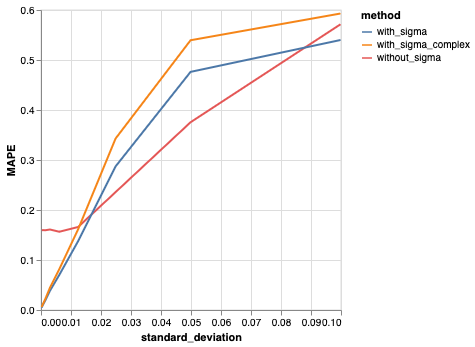
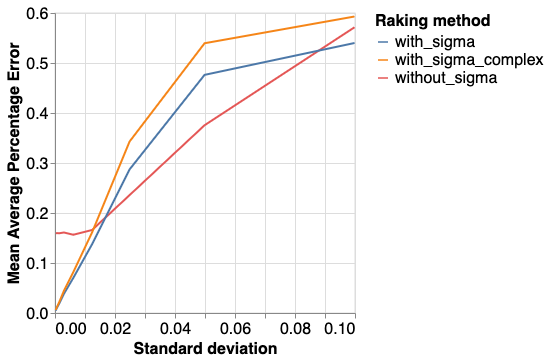
Improve plots

diff --git a/MAPE_variable.html b/MAPE_variable.html
@@ -20,7 +20,7 @@
   <div id="vis"></div>
   <script>
     (function(vegaEmbed) {
-      var spec = {"config": {"view": {"continuousWidth": 300, "continuousHeight": 300}}, "data": {"name": "data-65c408e2a9bd8692c3c29e3ad18324c0"}, "mark": {"type": "bar"}, "encoding": {"color": {"field": "method", "type": "nominal"}, "column": {"field": "variable", "type": "ordinal"}, "x": {"field": "method", "type": "ordinal"}, "y": {"field": "MAPE", "type": "quantitative"}}, "$schema": "https://vega.github.io/schema/vega-lite/v5.16.3.json", "datasets": {"data-65c408e2a9bd8692c3c29e3ad18324c0": [{"variable": 1, "true_mean": 0.1, "standard_deviation": 0.000390625, "method": "without_sigma", "MAPE": 0.15848712167520024}, {"variable": 2, "true_mean": 0.1, "standard_deviation": 0.00078125, "method": "without_sigma", "MAPE": 0.15874428123716716}, {"variable": 3, "true_mean": 0.1, "standard_deviation": 0.0015625, "method": "without_sigma", "MAPE": 0.15850567319213366}, {"variable": 4, "true_mean": 0.1, "standard_deviation": 0.003125, "method": "without_sigma", "MAPE": 0.1599968191082788}, {"variable": 5, "true_mean": 0.1, "standard_deviation": 0.00625, "method": "without_sigma", "MAPE": 0.15544927597608443}, {"variable": 6, "true_mean": 0.1, "standard_deviation": 0.0125, "method": "without_sigma", "MAPE": 0.1650368608952311}, {"variable": 7, "true_mean": 0.1, "standard_deviation": 0.025, "method": "without_sigma", "MAPE": 0.23470430019260285}, {"variable": 8, "true_mean": 0.1, "standard_deviation": 0.05, "method": "without_sigma", "MAPE": 0.3745517425366574}, {"variable": 9, "true_mean": 0.1, "standard_deviation": 0.1, "method": "without_sigma", "MAPE": 0.5705101180789108}, {"variable": 1, "true_mean": 0.1, "standard_deviation": 0.000390625, "method": "with_sigma", "MAPE": 0.004607643168661127}, {"variable": 2, "true_mean": 0.1, "standard_deviation": 0.00078125, "method": "with_sigma", "MAPE": 0.009505430930509281}, {"variable": 3, "true_mean": 0.1, "standard_deviation": 0.0015625, "method": "with_sigma", "MAPE": 0.018076172148851967}, {"variable": 4, "true_mean": 0.1, "standard_deviation": 0.003125, "method": "with_sigma", "MAPE": 0.03753351426005655}, {"variable": 5, "true_mean": 0.1, "standard_deviation": 0.00625, "method": "with_sigma", "MAPE": 0.06930276379970787}, {"variable": 6, "true_mean": 0.1, "standard_deviation": 0.0125, "method": "with_sigma", "MAPE": 0.13657506735272387}, {"variable": 7, "true_mean": 0.1, "standard_deviation": 0.025, "method": "with_sigma", "MAPE": 0.28609927858418643}, {"variable": 8, "true_mean": 0.1, "standard_deviation": 0.05, "method": "with_sigma", "MAPE": 0.475210553829539}, {"variable": 9, "true_mean": 0.1, "standard_deviation": 0.1, "method": "with_sigma", "MAPE": 0.5390178348846087}, {"variable": 1, "true_mean": 0.1, "standard_deviation": 0.000390625, "method": "with_sigma_complex", "MAPE": 0.005333796108781675}, {"variable": 2, "true_mean": 0.1, "standard_deviation": 0.00078125, "method": "with_sigma_complex", "MAPE": 0.010995045440165064}, {"variable": 3, "true_mean": 0.1, "standard_deviation": 0.0015625, "method": "with_sigma_complex", "MAPE": 0.020914988480635336}, {"variable": 4, "true_mean": 0.1, "standard_deviation": 0.003125, "method": "with_sigma_complex", "MAPE": 0.04348535979393078}, {"variable": 5, "true_mean": 0.1, "standard_deviation": 0.00625, "method": "with_sigma_complex", "MAPE": 0.08069421228099341}, {"variable": 6, "true_mean": 0.1, "standard_deviation": 0.0125, "method": "with_sigma_complex", "MAPE": 0.16013766709210342}, {"variable": 7, "true_mean": 0.1, "standard_deviation": 0.025, "method": "with_sigma_complex", "MAPE": 0.34180524310721905}, {"variable": 8, "true_mean": 0.1, "standard_deviation": 0.05, "method": "with_sigma_complex", "MAPE": 0.5384561318128677}, {"variable": 9, "true_mean": 0.1, "standard_deviation": 0.1, "method": "with_sigma_complex", "MAPE": 0.5919805839770943}]}};
+      var spec = {"config": {"view": {"continuousWidth": 300, "continuousHeight": 300}, "axis": {"labelFontSize": 16, "titleFontSize": 16}, "header": {"labelFontSize": 16, "titleFontSize": 16}, "legend": {"labelFontSize": 16, "titleFontSize": 16}}, "data": {"name": "data-65c408e2a9bd8692c3c29e3ad18324c0"}, "mark": {"type": "bar"}, "encoding": {"color": {"field": "method", "legend": {"title": "Raking method"}, "type": "nominal"}, "column": {"field": "variable", "header": {"title": "Variable", "titleFontSize": 16}, "type": "ordinal"}, "x": {"axis": {"title": "Method"}, "field": "method", "type": "ordinal"}, "y": {"axis": {"title": "Mean Average Percentage Error"}, "field": "MAPE", "type": "quantitative"}}, "$schema": "https://vega.github.io/schema/vega-lite/v5.16.3.json", "datasets": {"data-65c408e2a9bd8692c3c29e3ad18324c0": [{"variable": 1, "true_mean": 0.1, "standard_deviation": 0.000390625, "method": "without_sigma", "MAPE": 0.15848712167520024}, {"variable": 2, "true_mean": 0.1, "standard_deviation": 0.00078125, "method": "without_sigma", "MAPE": 0.15874428123716716}, {"variable": 3, "true_mean": 0.1, "standard_deviation": 0.0015625, "method": "without_sigma", "MAPE": 0.15850567319213366}, {"variable": 4, "true_mean": 0.1, "standard_deviation": 0.003125, "method": "without_sigma", "MAPE": 0.1599968191082788}, {"variable": 5, "true_mean": 0.1, "standard_deviation": 0.00625, "method": "without_sigma", "MAPE": 0.15544927597608443}, {"variable": 6, "true_mean": 0.1, "standard_deviation": 0.0125, "method": "without_sigma", "MAPE": 0.1650368608952311}, {"variable": 7, "true_mean": 0.1, "standard_deviation": 0.025, "method": "without_sigma", "MAPE": 0.23470430019260285}, {"variable": 8, "true_mean": 0.1, "standard_deviation": 0.05, "method": "without_sigma", "MAPE": 0.3745517425366574}, {"variable": 9, "true_mean": 0.1, "standard_deviation": 0.1, "method": "without_sigma", "MAPE": 0.5705101180789108}, {"variable": 1, "true_mean": 0.1, "standard_deviation": 0.000390625, "method": "with_sigma", "MAPE": 0.004607643168661127}, {"variable": 2, "true_mean": 0.1, "standard_deviation": 0.00078125, "method": "with_sigma", "MAPE": 0.009505430930509281}, {"variable": 3, "true_mean": 0.1, "standard_deviation": 0.0015625, "method": "with_sigma", "MAPE": 0.018076172148851967}, {"variable": 4, "true_mean": 0.1, "standard_deviation": 0.003125, "method": "with_sigma", "MAPE": 0.03753351426005655}, {"variable": 5, "true_mean": 0.1, "standard_deviation": 0.00625, "method": "with_sigma", "MAPE": 0.06930276379970787}, {"variable": 6, "true_mean": 0.1, "standard_deviation": 0.0125, "method": "with_sigma", "MAPE": 0.13657506735272387}, {"variable": 7, "true_mean": 0.1, "standard_deviation": 0.025, "method": "with_sigma", "MAPE": 0.28609927858418643}, {"variable": 8, "true_mean": 0.1, "standard_deviation": 0.05, "method": "with_sigma", "MAPE": 0.475210553829539}, {"variable": 9, "true_mean": 0.1, "standard_deviation": 0.1, "method": "with_sigma", "MAPE": 0.5390178348846087}, {"variable": 1, "true_mean": 0.1, "standard_deviation": 0.000390625, "method": "with_sigma_complex", "MAPE": 0.005333796108781675}, {"variable": 2, "true_mean": 0.1, "standard_deviation": 0.00078125, "method": "with_sigma_complex", "MAPE": 0.010995045440165064}, {"variable": 3, "true_mean": 0.1, "standard_deviation": 0.0015625, "method": "with_sigma_complex", "MAPE": 0.020914988480635336}, {"variable": 4, "true_mean": 0.1, "standard_deviation": 0.003125, "method": "with_sigma_complex", "MAPE": 0.04348535979393078}, {"variable": 5, "true_mean": 0.1, "standard_deviation": 0.00625, "method": "with_sigma_complex", "MAPE": 0.08069421228099341}, {"variable": 6, "true_mean": 0.1, "standard_deviation": 0.0125, "method": "with_sigma_complex", "MAPE": 0.16013766709210342}, {"variable": 7, "true_mean": 0.1, "standard_deviation": 0.025, "method": "with_sigma_complex", "MAPE": 0.34180524310721905}, {"variable": 8, "true_mean": 0.1, "standard_deviation": 0.05, "method": "with_sigma_complex", "MAPE": 0.5384561318128677}, {"variable": 9, "true_mean": 0.1, "standard_deviation": 0.1, "method": "with_sigma_complex", "MAPE": 0.5919805839770943}]}};
       var embedOpt = {"mode": "vega-lite"};
 
       function showError(el, error){

diff --git a/MAPE_standard_deviation.html b/MAPE_standard_deviation.html
@@ -20,7 +20,7 @@
   <div id="vis"></div>
   <script>
     (function(vegaEmbed) {
-      var spec = {"config": {"view": {"continuousWidth": 300, "continuousHeight": 300}}, "data": {"name": "data-65c408e2a9bd8692c3c29e3ad18324c0"}, "mark": {"type": "line"}, "encoding": {"color": {"field": "method", "type": "nominal"}, "x": {"field": "standard_deviation", "type": "quantitative"}, "y": {"field": "MAPE", "type": "quantitative"}}, "$schema": "https://vega.github.io/schema/vega-lite/v5.16.3.json", "datasets": {"data-65c408e2a9bd8692c3c29e3ad18324c0": [{"variable": 1, "true_mean": 0.1, "standard_deviation": 0.000390625, "method": "without_sigma", "MAPE": 0.15848712167520024}, {"variable": 2, "true_mean": 0.1, "standard_deviation": 0.00078125, "method": "without_sigma", "MAPE": 0.15874428123716716}, {"variable": 3, "true_mean": 0.1, "standard_deviation": 0.0015625, "method": "without_sigma", "MAPE": 0.15850567319213366}, {"variable": 4, "true_mean": 0.1, "standard_deviation": 0.003125, "method": "without_sigma", "MAPE": 0.1599968191082788}, {"variable": 5, "true_mean": 0.1, "standard_deviation": 0.00625, "method": "without_sigma", "MAPE": 0.15544927597608443}, {"variable": 6, "true_mean": 0.1, "standard_deviation": 0.0125, "method": "without_sigma", "MAPE": 0.1650368608952311}, {"variable": 7, "true_mean": 0.1, "standard_deviation": 0.025, "method": "without_sigma", "MAPE": 0.23470430019260285}, {"variable": 8, "true_mean": 0.1, "standard_deviation": 0.05, "method": "without_sigma", "MAPE": 0.3745517425366574}, {"variable": 9, "true_mean": 0.1, "standard_deviation": 0.1, "method": "without_sigma", "MAPE": 0.5705101180789108}, {"variable": 1, "true_mean": 0.1, "standard_deviation": 0.000390625, "method": "with_sigma", "MAPE": 0.004607643168661127}, {"variable": 2, "true_mean": 0.1, "standard_deviation": 0.00078125, "method": "with_sigma", "MAPE": 0.009505430930509281}, {"variable": 3, "true_mean": 0.1, "standard_deviation": 0.0015625, "method": "with_sigma", "MAPE": 0.018076172148851967}, {"variable": 4, "true_mean": 0.1, "standard_deviation": 0.003125, "method": "with_sigma", "MAPE": 0.03753351426005655}, {"variable": 5, "true_mean": 0.1, "standard_deviation": 0.00625, "method": "with_sigma", "MAPE": 0.06930276379970787}, {"variable": 6, "true_mean": 0.1, "standard_deviation": 0.0125, "method": "with_sigma", "MAPE": 0.13657506735272387}, {"variable": 7, "true_mean": 0.1, "standard_deviation": 0.025, "method": "with_sigma", "MAPE": 0.28609927858418643}, {"variable": 8, "true_mean": 0.1, "standard_deviation": 0.05, "method": "with_sigma", "MAPE": 0.475210553829539}, {"variable": 9, "true_mean": 0.1, "standard_deviation": 0.1, "method": "with_sigma", "MAPE": 0.5390178348846087}, {"variable": 1, "true_mean": 0.1, "standard_deviation": 0.000390625, "method": "with_sigma_complex", "MAPE": 0.005333796108781675}, {"variable": 2, "true_mean": 0.1, "standard_deviation": 0.00078125, "method": "with_sigma_complex", "MAPE": 0.010995045440165064}, {"variable": 3, "true_mean": 0.1, "standard_deviation": 0.0015625, "method": "with_sigma_complex", "MAPE": 0.020914988480635336}, {"variable": 4, "true_mean": 0.1, "standard_deviation": 0.003125, "method": "with_sigma_complex", "MAPE": 0.04348535979393078}, {"variable": 5, "true_mean": 0.1, "standard_deviation": 0.00625, "method": "with_sigma_complex", "MAPE": 0.08069421228099341}, {"variable": 6, "true_mean": 0.1, "standard_deviation": 0.0125, "method": "with_sigma_complex", "MAPE": 0.16013766709210342}, {"variable": 7, "true_mean": 0.1, "standard_deviation": 0.025, "method": "with_sigma_complex", "MAPE": 0.34180524310721905}, {"variable": 8, "true_mean": 0.1, "standard_deviation": 0.05, "method": "with_sigma_complex", "MAPE": 0.5384561318128677}, {"variable": 9, "true_mean": 0.1, "standard_deviation": 0.1, "method": "with_sigma_complex", "MAPE": 0.5919805839770943}]}};
+      var spec = {"config": {"view": {"continuousWidth": 300, "continuousHeight": 300}, "axis": {"labelFontSize": 16, "titleFontSize": 16}, "legend": {"labelFontSize": 16, "titleFontSize": 16}}, "data": {"name": "data-65c408e2a9bd8692c3c29e3ad18324c0"}, "mark": {"type": "line"}, "encoding": {"color": {"field": "method", "legend": {"title": "Raking method"}, "type": "nominal"}, "x": {"axis": {"title": "Standard deviation"}, "field": "standard_deviation", "type": "quantitative"}, "y": {"axis": {"title": "Mean Average Percentage Error"}, "field": "MAPE", "type": "quantitative"}}, "$schema": "https://vega.github.io/schema/vega-lite/v5.16.3.json", "datasets": {"data-65c408e2a9bd8692c3c29e3ad18324c0": [{"variable": 1, "true_mean": 0.1, "standard_deviation": 0.000390625, "method": "without_sigma", "MAPE": 0.15848712167520024}, {"variable": 2, "true_mean": 0.1, "standard_deviation": 0.00078125, "method": "without_sigma", "MAPE": 0.15874428123716716}, {"variable": 3, "true_mean": 0.1, "standard_deviation": 0.0015625, "method": "without_sigma", "MAPE": 0.15850567319213366}, {"variable": 4, "true_mean": 0.1, "standard_deviation": 0.003125, "method": "without_sigma", "MAPE": 0.1599968191082788}, {"variable": 5, "true_mean": 0.1, "standard_deviation": 0.00625, "method": "without_sigma", "MAPE": 0.15544927597608443}, {"variable": 6, "true_mean": 0.1, "standard_deviation": 0.0125, "method": "without_sigma", "MAPE": 0.1650368608952311}, {"variable": 7, "true_mean": 0.1, "standard_deviation": 0.025, "method": "without_sigma", "MAPE": 0.23470430019260285}, {"variable": 8, "true_mean": 0.1, "standard_deviation": 0.05, "method": "without_sigma", "MAPE": 0.3745517425366574}, {"variable": 9, "true_mean": 0.1, "standard_deviation": 0.1, "method": "without_sigma", "MAPE": 0.5705101180789108}, {"variable": 1, "true_mean": 0.1, "standard_deviation": 0.000390625, "method": "with_sigma", "MAPE": 0.004607643168661127}, {"variable": 2, "true_mean": 0.1, "standard_deviation": 0.00078125, "method": "with_sigma", "MAPE": 0.009505430930509281}, {"variable": 3, "true_mean": 0.1, "standard_deviation": 0.0015625, "method": "with_sigma", "MAPE": 0.018076172148851967}, {"variable": 4, "true_mean": 0.1, "standard_deviation": 0.003125, "method": "with_sigma", "MAPE": 0.03753351426005655}, {"variable": 5, "true_mean": 0.1, "standard_deviation": 0.00625, "method": "with_sigma", "MAPE": 0.06930276379970787}, {"variable": 6, "true_mean": 0.1, "standard_deviation": 0.0125, "method": "with_sigma", "MAPE": 0.13657506735272387}, {"variable": 7, "true_mean": 0.1, "standard_deviation": 0.025, "method": "with_sigma", "MAPE": 0.28609927858418643}, {"variable": 8, "true_mean": 0.1, "standard_deviation": 0.05, "method": "with_sigma", "MAPE": 0.475210553829539}, {"variable": 9, "true_mean": 0.1, "standard_deviation": 0.1, "method": "with_sigma", "MAPE": 0.5390178348846087}, {"variable": 1, "true_mean": 0.1, "standard_deviation": 0.000390625, "method": "with_sigma_complex", "MAPE": 0.005333796108781675}, {"variable": 2, "true_mean": 0.1, "standard_deviation": 0.00078125, "method": "with_sigma_complex", "MAPE": 0.010995045440165064}, {"variable": 3, "true_mean": 0.1, "standard_deviation": 0.0015625, "method": "with_sigma_complex", "MAPE": 0.020914988480635336}, {"variable": 4, "true_mean": 0.1, "standard_deviation": 0.003125, "method": "with_sigma_complex", "MAPE": 0.04348535979393078}, {"variable": 5, "true_mean": 0.1, "standard_deviation": 0.00625, "method": "with_sigma_complex", "MAPE": 0.08069421228099341}, {"variable": 6, "true_mean": 0.1, "standard_deviation": 0.0125, "method": "with_sigma_complex", "MAPE": 0.16013766709210342}, {"variable": 7, "true_mean": 0.1, "standard_deviation": 0.025, "method": "with_sigma_complex", "MAPE": 0.34180524310721905}, {"variable": 8, "true_mean": 0.1, "standard_deviation": 0.05, "method": "with_sigma_complex", "MAPE": 0.5384561318128677}, {"variable": 9, "true_mean": 0.1, "standard_deviation": 0.1, "method": "with_sigma_complex", "MAPE": 0.5919805839770943}]}};
       var embedOpt = {"mode": "vega-lite"};
 
       function showError(el, error){

diff --git a/analyze_experiment.py b/analyze_experiment.py
@@ -87,17 +87,32 @@ def plot_MAPE(df_MAPE):
     Output: None
     """
     chart1 = alt.Chart(df_MAPE).mark_bar().encode(
-      x='method:O',
-      y='MAPE:Q',
-      color='method:N',
-      column='variable:O'
+        x=alt.X('method:O', axis=alt.Axis(title='Method')),
+        y=alt.Y('MAPE:Q', axis=alt.Axis(title='Mean Average Percentage Error')),
+        color=alt.Color('method:N', legend=alt.Legend(title='Raking method')),
+        column=alt.Column('variable:O', header=alt.Header(title='Variable', titleFontSize=16))
+    ).configure_axis(
+        labelFontSize=16,
+        titleFontSize=16
+    ).configure_legend(
+        labelFontSize=16,
+        titleFontSize=16,
+    ).configure_header(
+        labelFontSize=16,
+        titleFontSize=16
     )
     chart1.save('MAPE_variable.html')
 
     chart2 = alt.Chart(df_MAPE).mark_line().encode(
-      x='standard_deviation:Q',
-      y='MAPE:Q',
-      color='method:N'
+        x=alt.X('standard_deviation:Q', axis=alt.Axis(title='Standard deviation')),
+        y=alt.Y('MAPE:Q', axis=alt.Axis(title='Mean Average Percentage Error')),
+        color=alt.Color('method:N', legend=alt.Legend(title='Raking method'))
+    ).configure_axis(
+        labelFontSize=16,
+        titleFontSize=16
+    ).configure_legend(
+        labelFontSize=16,
+        titleFontSize=16,
     )
     chart2.save('MAPE_standard_deviation.html')
 
